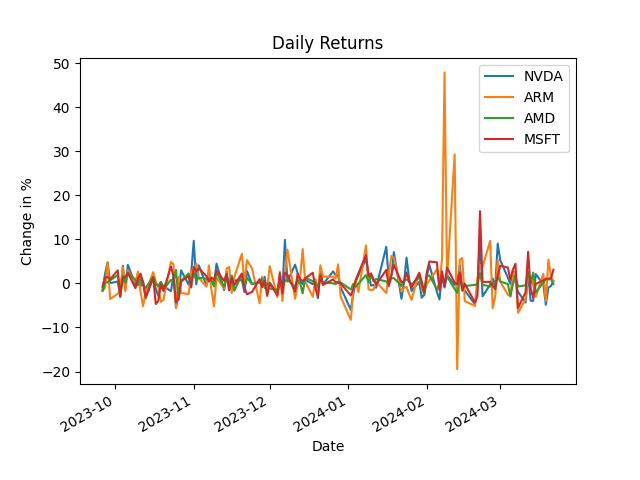
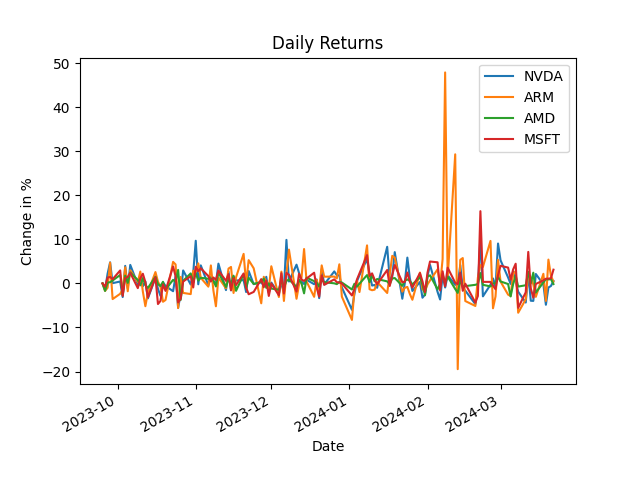
Small changes in names and re-order

diff --git a/main.py b/main.py
@@ -1,13 +1,6 @@
 import yfinance as yf
 import pandas as pd
 import matplotlib.pyplot as plt
-import numpy as np
-
-def min_max_scaling(data):
-    min_val = np.min(data)
-    max_val = np.max(data)
-    scaled_data = (data - min_val) / (max_val - min_val)
-    return scaled_data
 
 
 def plotShow(data_item, title_plt,xlable_plt,ylabel_plt,size = (10, 5)):
@@ -37,7 +30,7 @@ def calculate_rsi(data, window=14):
     # Calculate RSI
     rsi = 100 - (100 / (1 + rs))
     
-    return rsi.tail(1)
+    return rsi
  
 
 # A ticker is one stock
@@ -46,15 +39,16 @@ tickers = ['NVDA','ARM','AMD','MSFT']
 #Data manipulation
 
 # Selecting relevant columns from the data frame and scaling them 
-df_close_prices = yf.download(tickers, period = "6mo")['Adj Close']
+df_close_prices = yf.download(tickers, period = "6mo")['Close']
 df_volumes = yf.download(tickers, period = "6mo")['Volume']
 scalled_close_prices = df_close_prices / df_close_prices.iloc[0,:]
 scalled_volumes = df_volumes / df_volumes.iloc[0,:]
 
 #calculations
 # Calculating the daily change in precentages
-df_daily_returns = (df_close_prices.pct_change()* 100)
-df_rsi_result = calculate_rsi(df_close_prices)
+df_daily_returns = (df_close_prices.pct_change()* 100).fillna(0)
+
+df_rsi_result = calculate_rsi(df_close_prices).fillna(0)
 
 
 
@@ -62,7 +56,7 @@ df_rsi_result = calculate_rsi(df_close_prices)
 
 
 # Plotting close prices for all stocks 
-plotShow(scalled_close_prices, "Close Prices", "Date", "Price")
+plotShow(scalled_close_prices, "Closing Prices", "Date", "Price")
 
 #Plotting volume for each stock
 plotShow(scalled_volumes, "Volumes Traded", "Date", "Volume")
@@ -71,4 +65,4 @@ plotShow(scalled_volumes, "Volumes Traded", "Date", "Volume")
 plotShow(df_daily_returns, "Daily Returns", "Date", "Change in %")
 
 #Plotting RSI measure for each stock
-plotShow(df_rsi_result, "RSI in last 14 days", "Date", "Change in %")
+plotShow(df_rsi_result, "RSI measure", "Date", "RSI")
